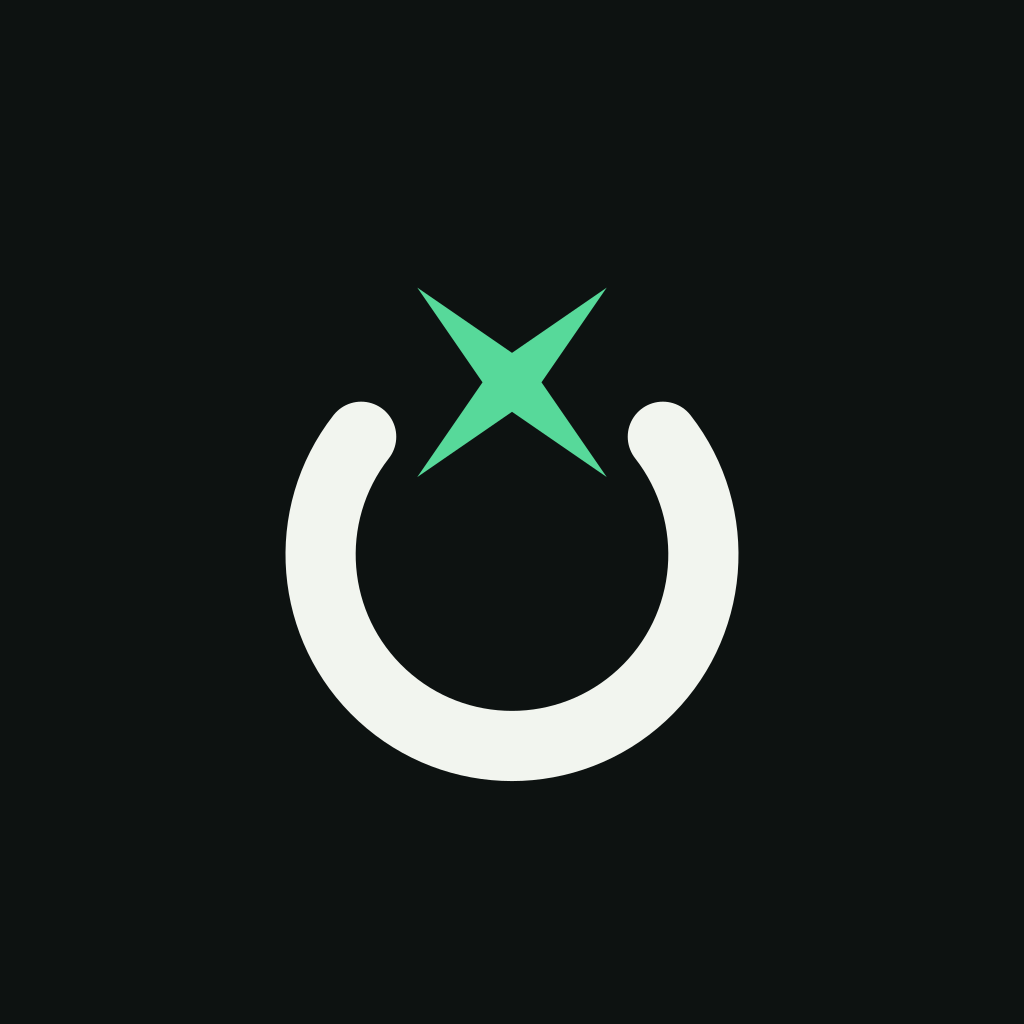
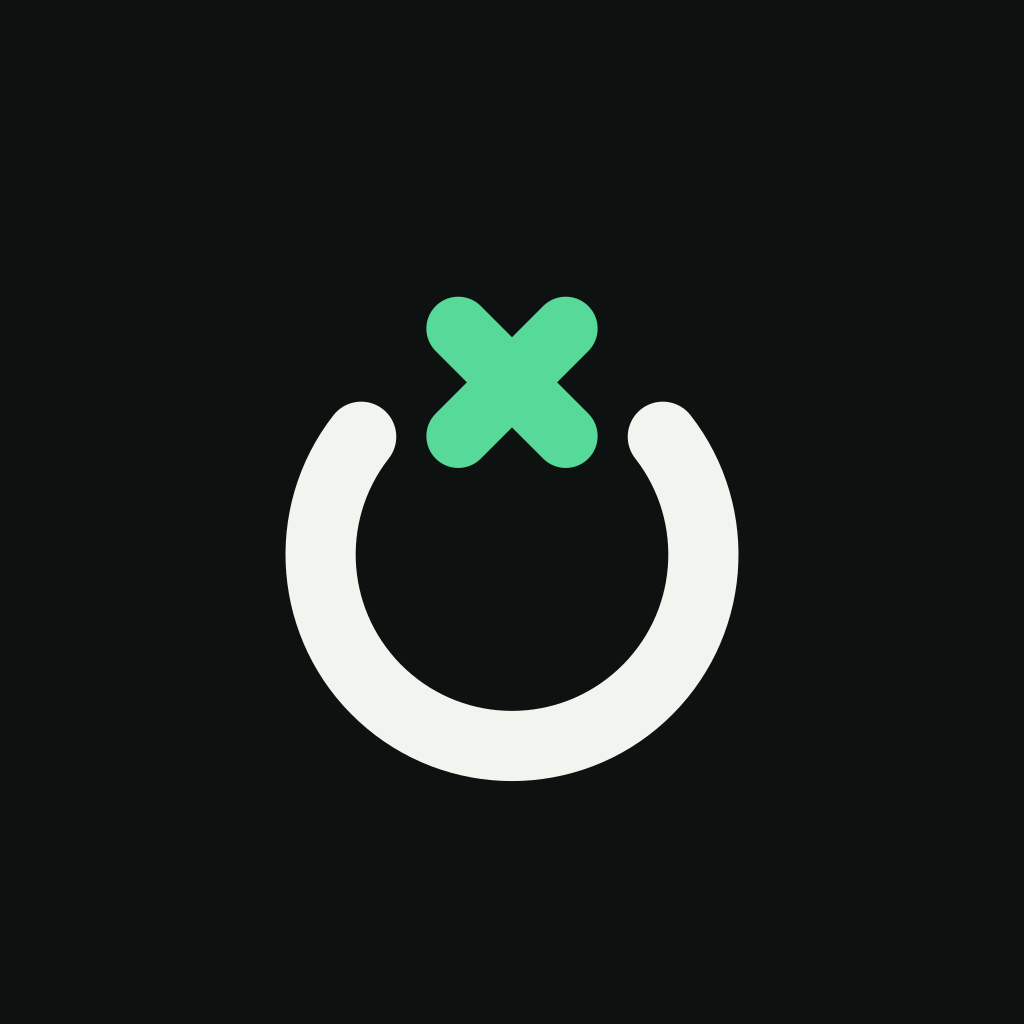
The spark is two rounded bars, like the ring's own stroke, crossed as an ×; assets regenerated

Changed region(s): [[0.4062, 0.2812, 0.5938, 0.4688]]

diff --git a/site/roadmap.html b/site/roadmap.html
@@ -544,8 +544,8 @@ td.n{font-variant-numeric:tabular-nums;white-space:nowrap;color:var(--ink)}
     <div class="body wide">
       <p class="lede">The power symbol, with a spark where its line would be: turn the computer on, and there's intelligence inside. One colour, solid, clear at 16 pixels.</p>
       <div class="lockups">
-        <div class="lockup"><svg class="lg" viewBox="27 12 146 175" aria-hidden="true" style="fill:currentColor;color:currentColor"><path class="arc" d="M52.72 77.06 A60 60 0 1 0 147.28 77.06" fill="none" stroke="currentColor" stroke-width="22" stroke-linecap="round" pathLength="1"/><path class="spark" d="M129.70 30.30 109.24 60.00 129.70 89.70 100.00 69.24 70.30 89.70 90.76 60.00 70.30 30.30 100.00 50.76Z"/></svg><b>tripppin</b></div>
-        <div class="lockup night"><svg class="lg" viewBox="27 12 146 175" aria-hidden="true" style="fill:currentColor;color:currentColor"><path class="arc" d="M52.72 77.06 A60 60 0 1 0 147.28 77.06" fill="none" stroke="currentColor" stroke-width="22" stroke-linecap="round" pathLength="1"/><path class="spark" d="M129.70 30.30 109.24 60.00 129.70 89.70 100.00 69.24 70.30 89.70 90.76 60.00 70.30 30.30 100.00 50.76Z"/></svg><b>tripppin</b></div>
+        <div class="lockup"><svg class="lg" viewBox="27 12 146 175" aria-hidden="true" style="fill:currentColor;color:currentColor"><path class="arc" d="M52.72 77.06 A60 60 0 1 0 147.28 77.06" fill="none" stroke="currentColor" stroke-width="22" stroke-linecap="round" pathLength="1"/><path class="spark" d="M109.90 35.96 A10 10 0 0 1 124.04 50.10 L114.14 60.00 L124.04 69.90 A10 10 0 0 1 109.90 84.04 L100.00 74.14 L90.10 84.04 A10 10 0 0 1 75.96 69.90 L85.86 60.00 L75.96 50.10 A10 10 0 0 1 90.10 35.96 L100.00 45.86Z"/></svg><b>tripppin</b></div>
+        <div class="lockup night"><svg class="lg" viewBox="27 12 146 175" aria-hidden="true" style="fill:currentColor;color:currentColor"><path class="arc" d="M52.72 77.06 A60 60 0 1 0 147.28 77.06" fill="none" stroke="currentColor" stroke-width="22" stroke-linecap="round" pathLength="1"/><path class="spark" d="M109.90 35.96 A10 10 0 0 1 124.04 50.10 L114.14 60.00 L124.04 69.90 A10 10 0 0 1 109.90 84.04 L100.00 74.14 L90.10 84.04 A10 10 0 0 1 75.96 69.90 L85.86 60.00 L75.96 50.10 A10 10 0 0 1 90.10 35.96 L100.00 45.86Z"/></svg><b>tripppin</b></div>
       </div>
       <div class="cards">
         <div class="card"><svg class="ic"><use href="#i-zap"/></svg><h4>The orb is the spark</h4><p>The spark twinkles while idle, spins while the AI thinks, and spins faster while a tool runs.</p></div>

diff --git a/crates/trip/src/logo.rs b/crates/trip/src/logo.rs
@@ -21,8 +21,9 @@ pub const RING: (f64, f64, f64, f64) = (100.0, 114.0, 60.0, 22.0);
 pub const GAP_DEG: f64 = 52.0;
 /// How far round the ring goes, in degrees.
 pub const SPAN: f64 = 360.0 - 2.0 * GAP_DEG;
-/// The spark: centre x, centre y, point length, waist ratio.
-pub const SPARK: (f64, f64, f64, f64) = (100.0, 60.0, 42.0, 0.22);
+/// The spark, two rounded bars crossing like the ring's own stroke: centre x, centre y, how far
+/// each arm reaches from the centre (to the end of its round cap), and the bars' thickness.
+pub const SPARK: (f64, f64, f64, f64) = (100.0, 60.0, 34.0, 20.0);
 /// The spark's resting turn: its long points on the diagonals, an ×.
 pub const SPARK_REST_DEG: f64 = 45.0;
 /// The mark's box in logo units: x, y, width, height.
@@ -58,17 +59,30 @@ impl Pose {
     pub const FULL: Pose = Pose { ring: 1.0, head_glow: 0.0, spark_scale: 1.0, spark_turn: 0.0, glint: 0.0 };
 }
 
-/// The spark's eight corners (long points at even indices), turned `turn_deg` past rest and scaled.
-pub fn spark_points(scale: f64, turn_deg: f64) -> [(f64, f64); 8] {
-    let (cx, cy, r, waist) = SPARK;
-    let mut pts = [(0.0, 0.0); 8];
-    for (i, p) in pts.iter_mut().enumerate() {
-        let rad = if i % 2 == 0 { r } else { r * waist } * scale;
-        let a = (SPARK_REST_DEG + turn_deg + 45.0 * i as f64).to_radians();
-        *p = (cx + rad * a.sin(), cy - rad * a.cos());
+/// The spark's outline, turned `turn_deg` past rest and scaled: a plus of two bars with round
+/// ends (each end a half circle of [`CAP_STEPS`] segments), turned to an × at rest.
+pub fn spark_points(scale: f64, turn_deg: f64) -> Vec<(f64, f64)> {
+    let (cx, cy, reach, thick) = SPARK;
+    let t = thick / 2.0;
+    let h = reach - t;
+    let mut plus = Vec::with_capacity(4 * (CAP_STEPS + 2));
+    // Clockwise from the top arm's left edge: each arm's round end, then the inner corner.
+    let arms = [(0.0, -h, 180.0, (t, -t)), (h, 0.0, 270.0, (t, t)), (0.0, h, 0.0, (-t, t)), (-h, 0.0, 90.0, (-t, -t))];
+    for (ex, ey, from, corner) in arms {
+        for k in 0..=CAP_STEPS {
+            let a = (from + 180.0 * k as f64 / CAP_STEPS as f64).to_radians();
+            plus.push((ex + t * a.cos(), ey + t * a.sin()));
+        }
+        plus.push(corner);
     }
-    pts
+    let a = (SPARK_REST_DEG + turn_deg).to_radians();
+    plus.into_iter()
+        .map(|(x, y)| (cx + scale * (x * a.cos() - y * a.sin()), cy + scale * (x * a.sin() + y * a.cos())))
+        .collect()
 }
+
+/// Segments in each of the spark's round ends.
+const CAP_STEPS: usize = 12;
 
 /// The ring's two ends, left then right.
 pub fn ring_ends() -> [(f64, f64); 2] {
